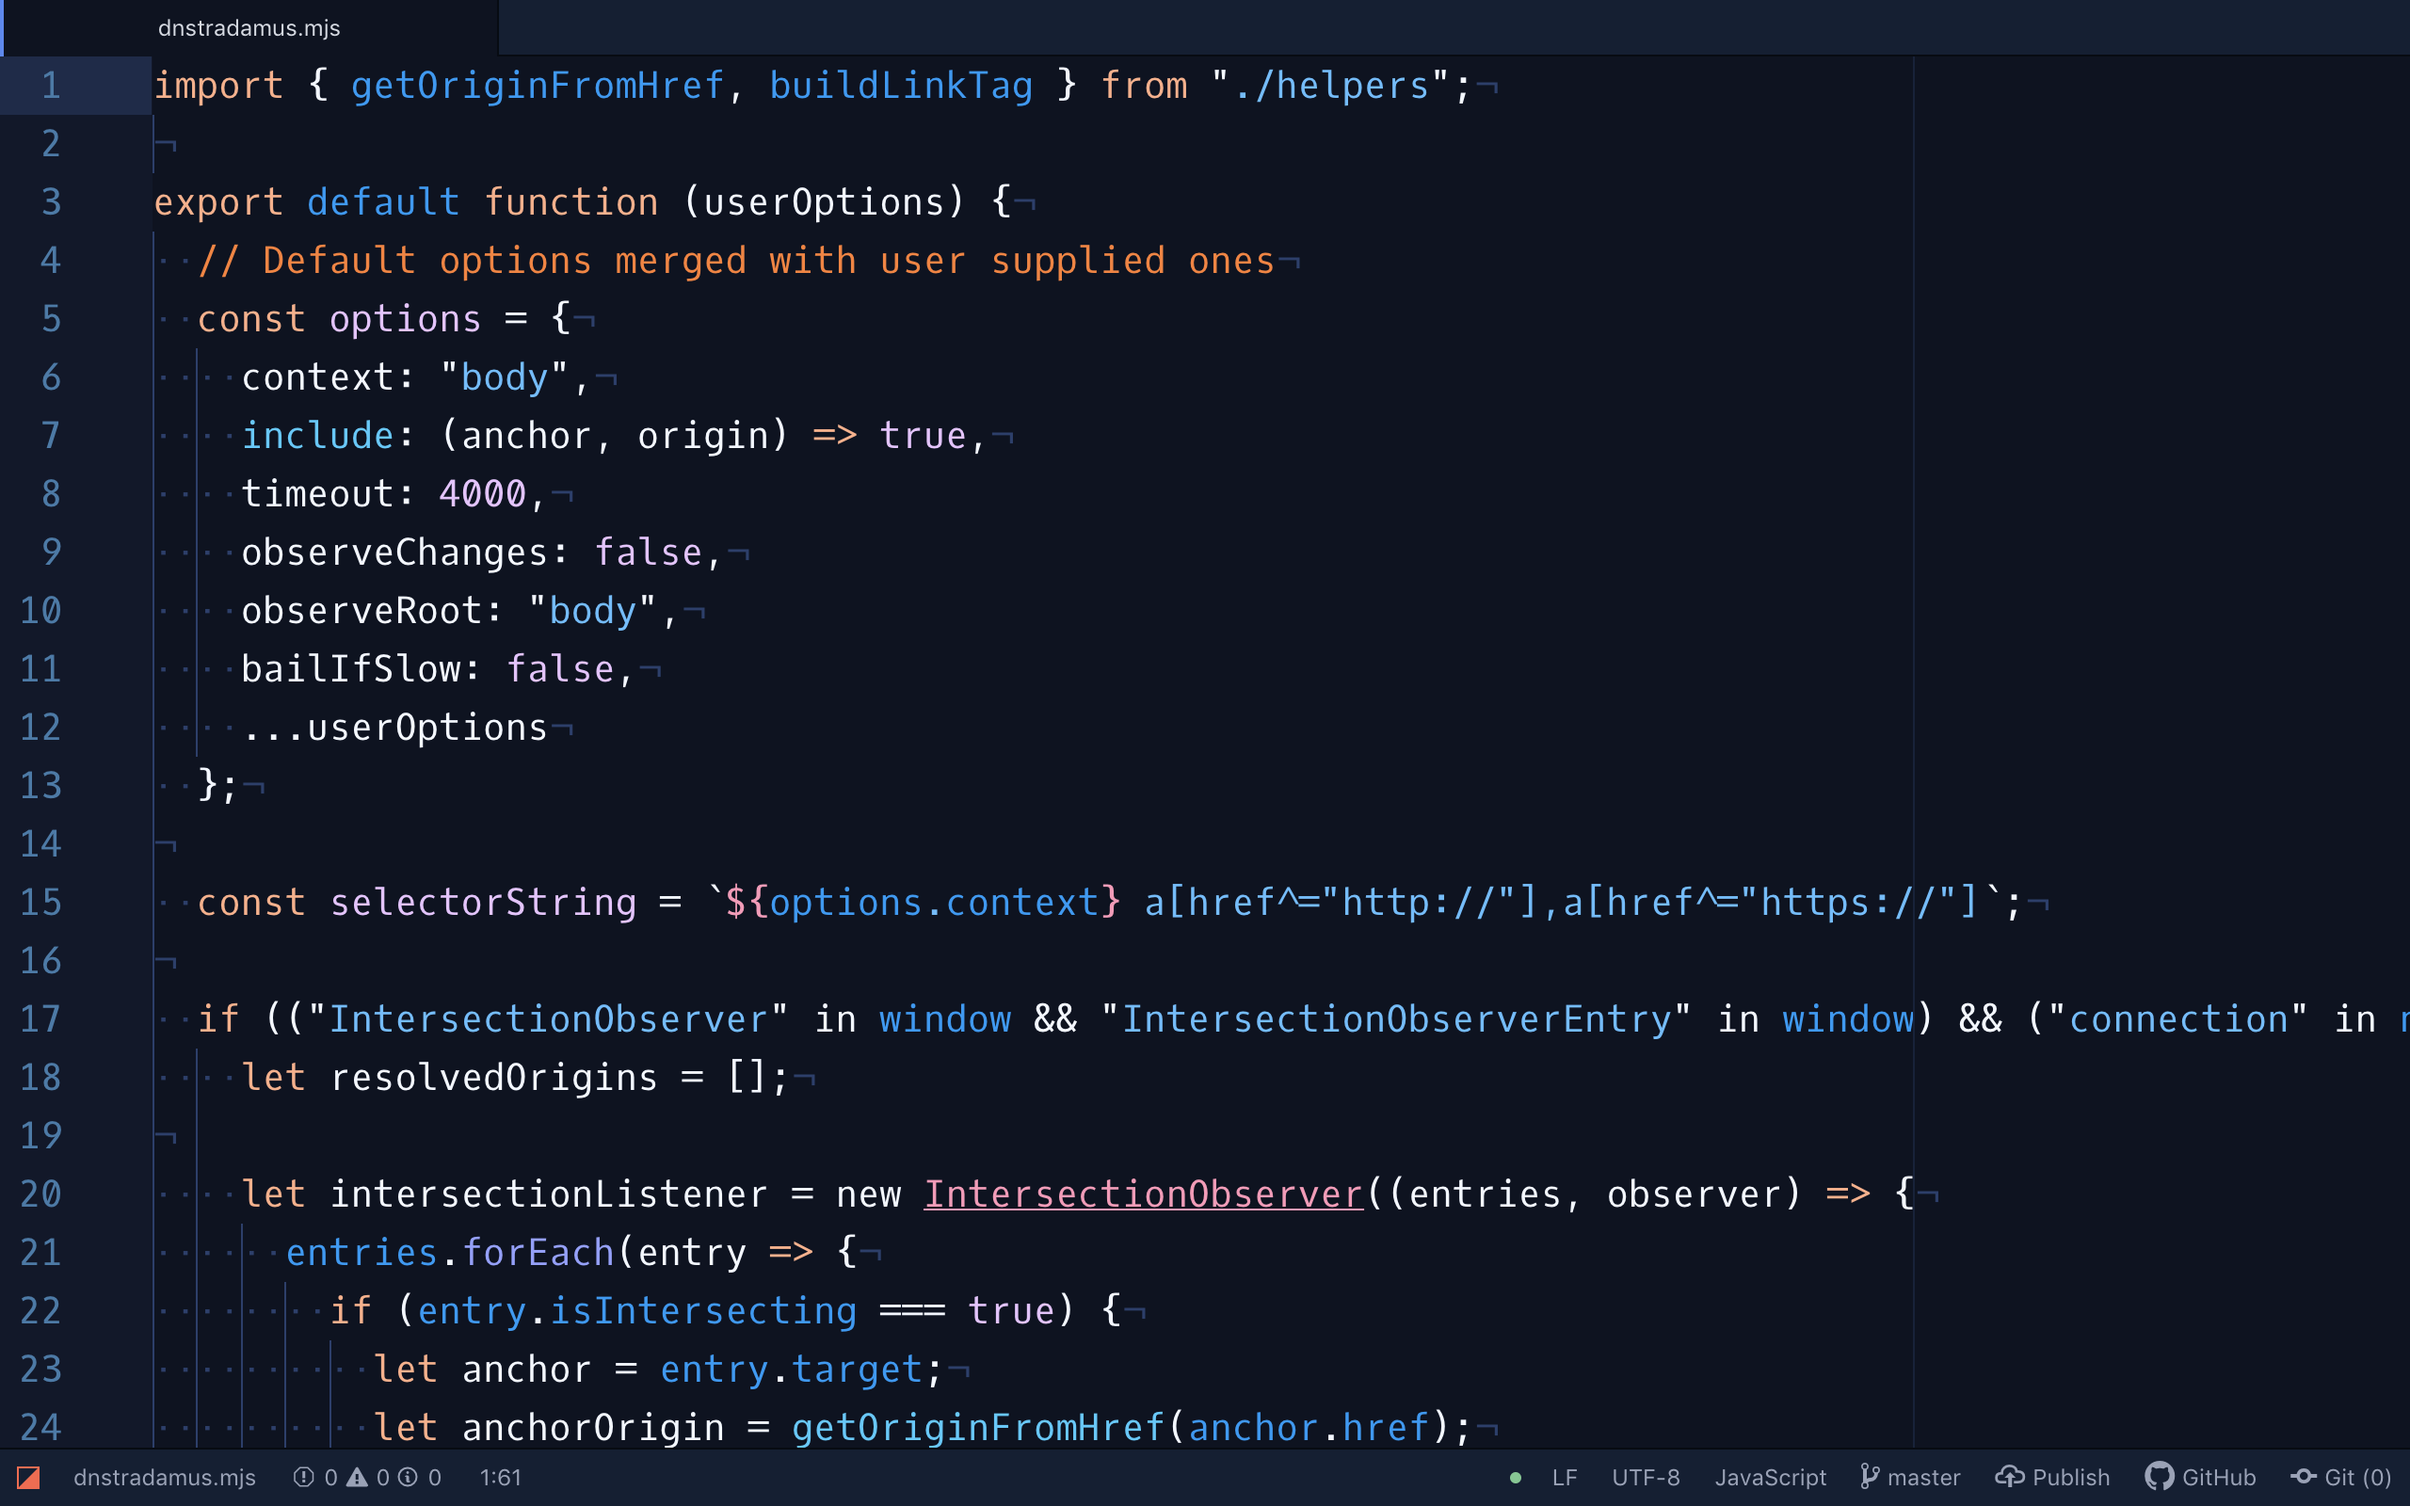
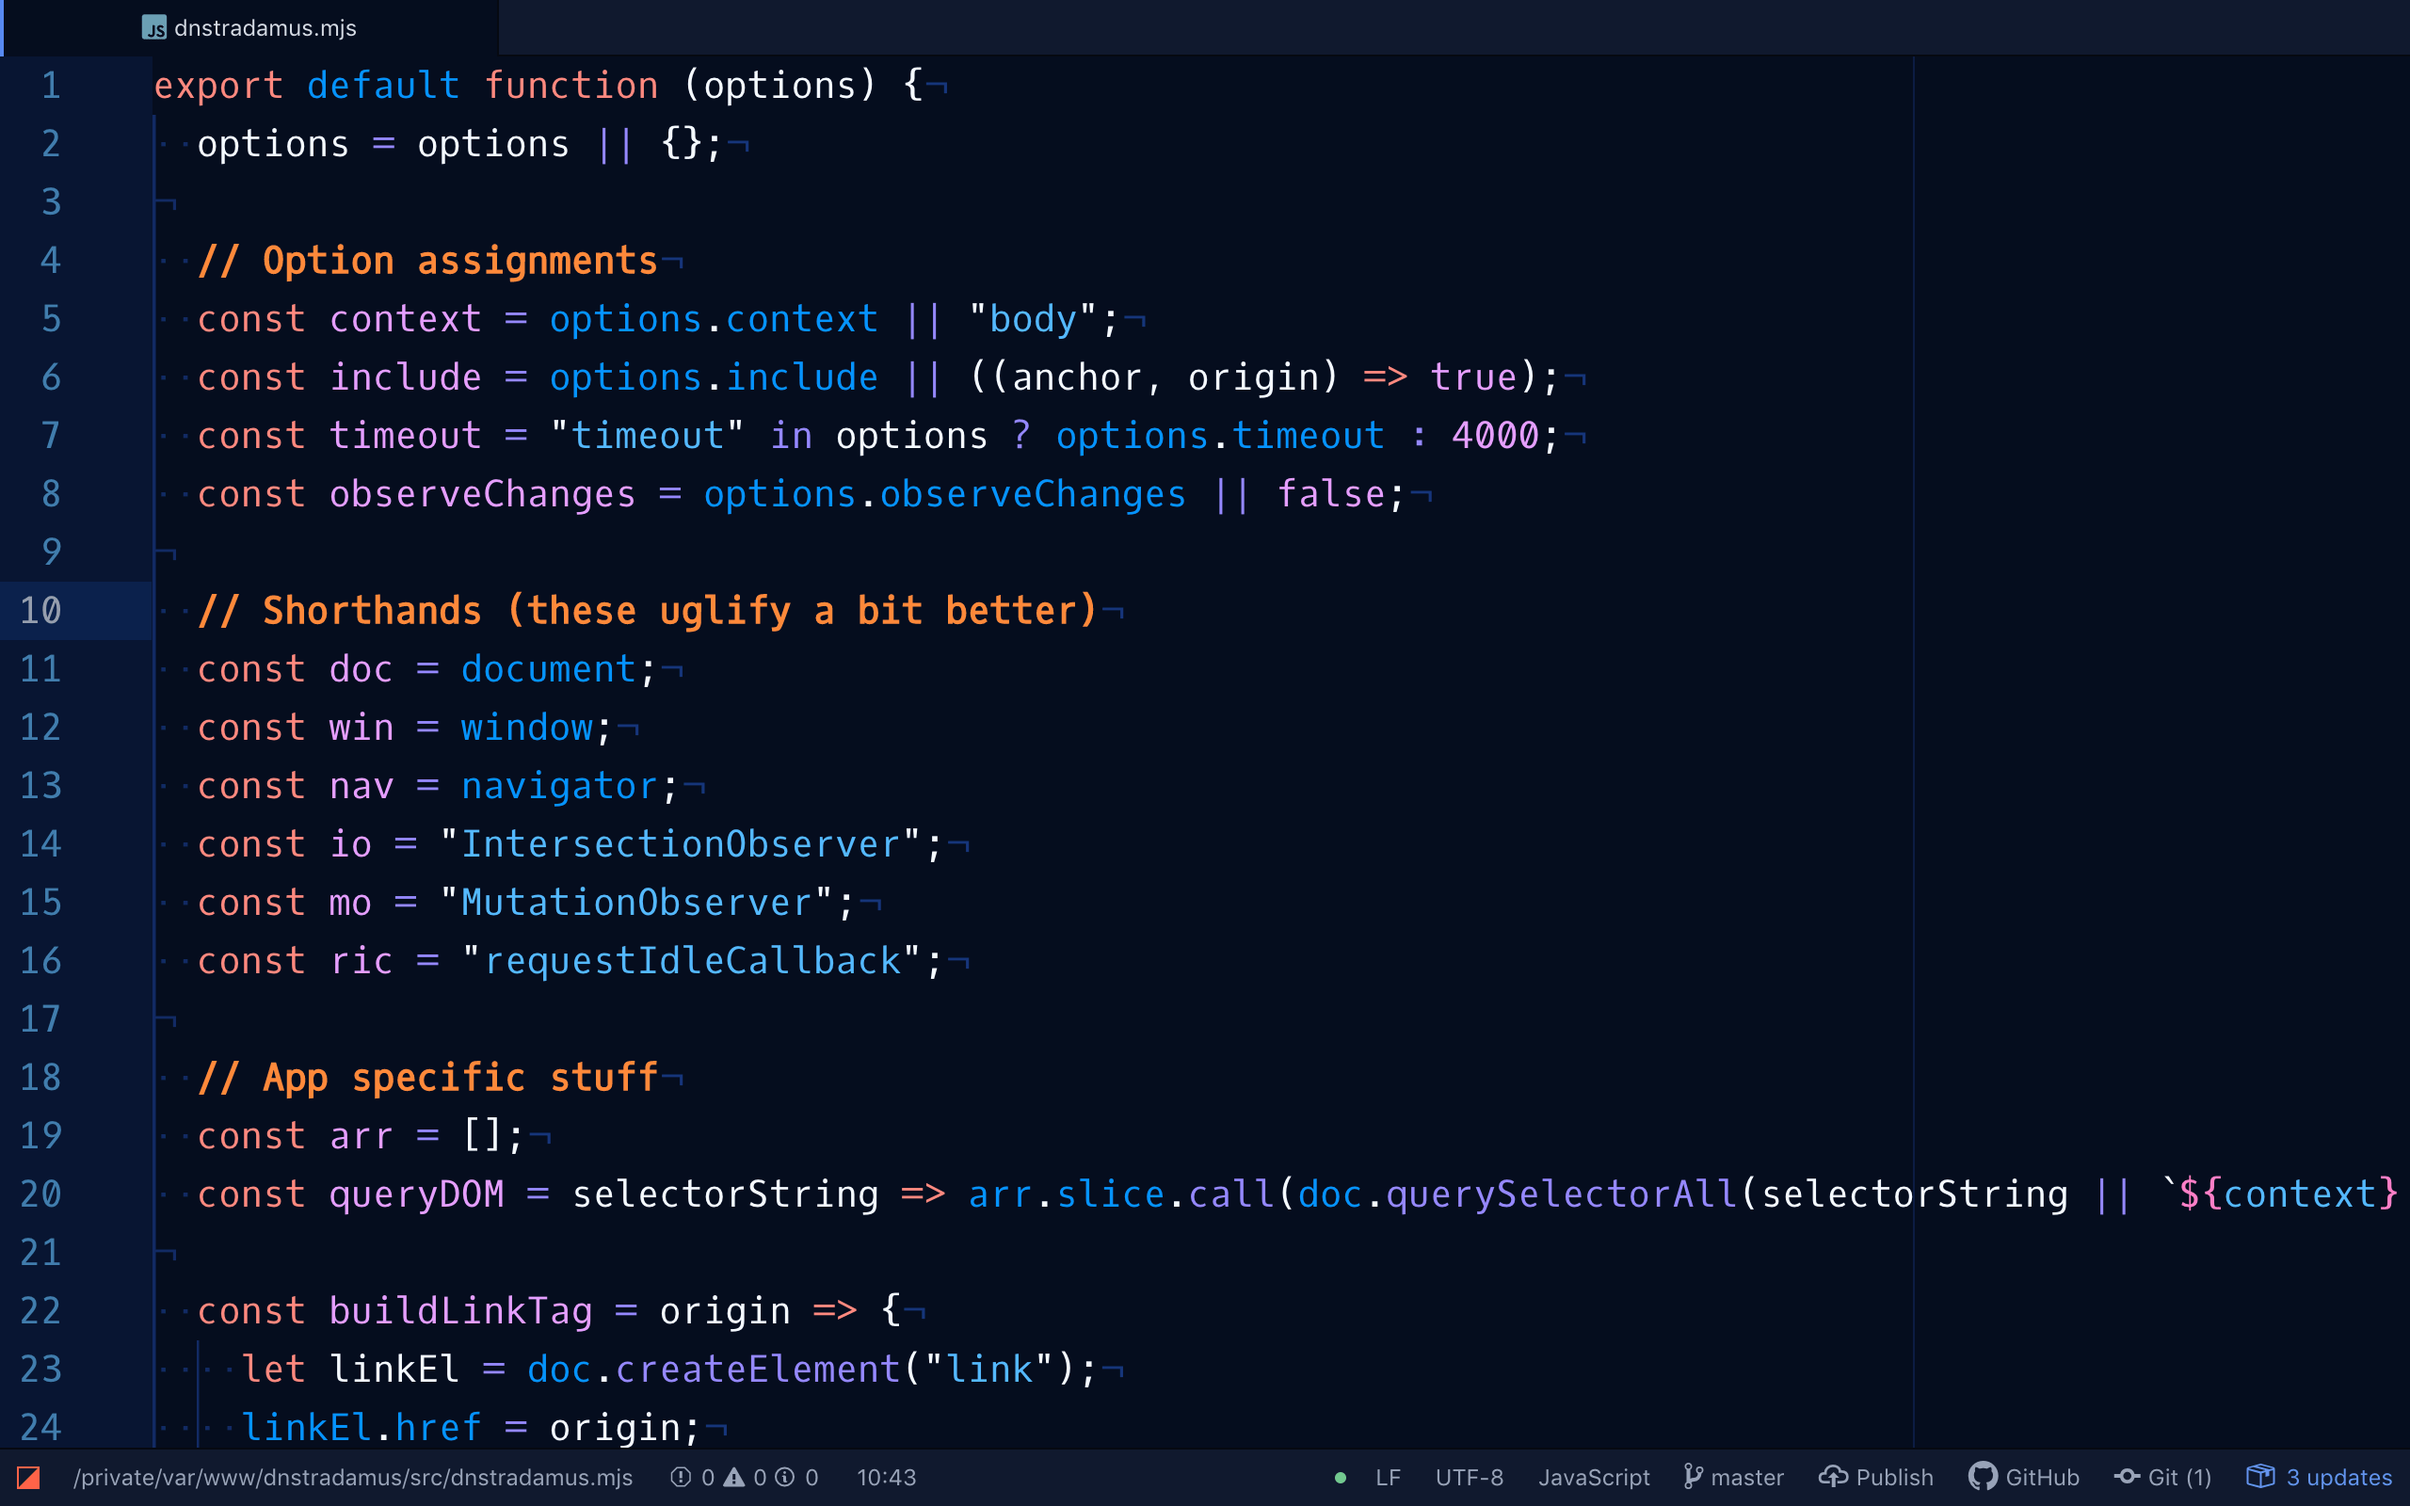
Increased saturation and lightness of colors to improve contrast and visual appeal.

diff --git a/styles/base.less b/styles/base.less
@@ -35,7 +35,7 @@ atom-text-editor {
   .gutter .line-number.folded,
   .gutter .line-number:after,
   .fold-marker:after {
-    color: @princeton-orange;
+    color: @mango-tango;
   }
 
   .invisible {
@@ -55,14 +55,14 @@ atom-text-editor {
 // Syntax styles
 
 .syntax--comment {
-  color: @princeton-orange;
+  color: @mango-tango;
 }
 
 .syntax--keyword {
-  color: @macaroni-and-cheese;
+  color: @tulip;
 
   &.syntax--control {
-    color: @macaroni-and-cheese;
+    color: @tulip;
   }
 
   &.syntax--operator {
@@ -70,27 +70,27 @@ atom-text-editor {
   }
 
   &.syntax--other.syntax--special-method {
-    color: @picton-blue;
+    color: @maya-blue;
   }
 
   &.syntax--other.syntax--unit {
-    color: @electric-lavender;
+    color: @rich-brilliant-lavender;
   }
 }
 
 .syntax--storage {
-  color: @macaroni-and-cheese;
+  color: @tulip;
 }
 
 .syntax--constant {
-  color: @electric-lavender;
+  color: @rich-brilliant-lavender;
 
   &.syntax--character.syntax--escape {
     color: @jordy-blue;
   }
 
   &.syntax--numeric {
-    color: @electric-lavender;
+    color: @rich-brilliant-lavender;
   }
 
   &.syntax--other.syntax--color {
@@ -103,10 +103,10 @@ atom-text-editor {
 }
 
 .syntax--variable {
-  color: @dodger-blue;
+  color: @azure;
 
   &.syntax--interpolation {
-    color: darken(@dodger-blue, 10%);
+    color: darken(@azure, 10%);
   }
 
   &.syntax--parameter.syntax--function {
@@ -115,7 +115,7 @@ atom-text-editor {
 }
 
 .syntax--invalid.syntax--illegal {
-  background-color: @dodger-blue;
+  background-color: @azure;
   color: @syntax-background-color;
 }
 
@@ -127,19 +127,19 @@ atom-text-editor {
     color: @jordy-blue;
 
     .syntax--source.syntax--ruby.syntax--embedded {
-      color: @electric-lavender;
+      color: @rich-brilliant-lavender;
     }
   }
 
   &.syntax--other.syntax--link {
-    color: @dodger-blue;
+    color: @azure;
   }
 }
 
 .syntax--punctuation {
   &.syntax--definition {
     &.syntax--comment {
-      color: @princeton-orange;
+      color: @mango-tango;
     }
 
     &.syntax--string,
@@ -151,45 +151,45 @@ atom-text-editor {
 
     &.syntax--heading,
     &.syntax--identity {
-      color: @picton-blue;
+      color: @maya-blue;
     }
 
     &.syntax--bold {
-      color: @light-crimson;
+      color: @princess-perfume;
       font-weight: bold;
     }
 
     &.syntax--italic {
-      color: @macaroni-and-cheese;
+      color: @tulip;
       font-style: italic;
     }
   }
 
   &.syntax--section.syntax--embedded {
-    color: @light-crimson;
+    color: @princess-perfume;
   }
 }
 
 .syntax--support {
   &.syntax--class {
-    color: @light-crimson;
+    color: @princess-perfume;
   }
 
   &.syntax--function  {
     color: @jordy-blue;
 
     &.syntax--any-method {
-      color: @picton-blue;
+      color: @maya-blue;
     }
   }
 }
 
 .syntax--entity {
   &.syntax--name.syntax--function {
-    color: @picton-blue;
+    color: @maya-blue;
   }
   &.syntax--name.syntax--type {
-    color: @light-crimson;
+    color: @princess-perfume;
     text-decoration: underline;
   }
 
@@ -197,46 +197,46 @@ atom-text-editor {
     color: @very-light-azure;
   }
   &.syntax--name.syntax--class, &.syntax--name.syntax--type.syntax--class {
-    color: @light-crimson;
+    color: @princess-perfume;
   }
 
   &.syntax--name.syntax--section {
-    color: @picton-blue;
+    color: @maya-blue;
   }
 
   &.syntax--name.syntax--tag {
-    color: @dodger-blue;
+    color: @azure;
     text-decoration: underline;
   }
 
   &.syntax--other.syntax--attribute-name {
-    color: @electric-lavender;
+    color: @rich-brilliant-lavender;
 
     &.syntax--id {
-      color: @picton-blue;
+      color: @maya-blue;
     }
   }
 }
 
 .syntax--meta {
   &.syntax--class {
-    color: @light-crimson;
+    color: @princess-perfume;
   }
 
   &.syntax--link {
-    color: @electric-lavender;
+    color: @rich-brilliant-lavender;
   }
 
   &.syntax--require {
-    color: @picton-blue;
+    color: @maya-blue;
   }
 
   &.syntax--selector {
-    color: @macaroni-and-cheese;
+    color: @tulip;
   }
 
   &.syntax--separator {
-    background-color: @deep-koamaru;
+    background-color: @saint-patricks-blue;
     color: @syntax-text-color;
   }
 }
@@ -247,25 +247,25 @@ atom-text-editor {
 
 .syntax--markup {
   &.syntax--bold {
-    color: @electric-lavender;
+    color: @rich-brilliant-lavender;
     font-weight: bold;
   }
 
   &.syntax--changed {
-    color: @macaroni-and-cheese;
+    color: @tulip;
   }
 
   &.syntax--deleted {
-    color: @dodger-blue;
+    color: @azure;
   }
 
   &.syntax--italic {
-    color: @macaroni-and-cheese;
+    color: @tulip;
     font-style: italic;
   }
 
   &.syntax--heading .syntax--punctuation.syntax--definition.syntax--heading {
-    color: @picton-blue;
+    color: @maya-blue;
   }
 
   &.syntax--inserted {
@@ -273,11 +273,11 @@ atom-text-editor {
   }
 
   &.syntax--list {
-    color: @dodger-blue;
+    color: @azure;
   }
 
   &.syntax--quote {
-    color: @electric-lavender;
+    color: @rich-brilliant-lavender;
   }
 
   &.syntax--raw.syntax--inline {

diff --git a/styles/syntax-variables.less b/styles/syntax-variables.less
@@ -5,27 +5,27 @@
 
 // General colors
 @syntax-text-color: @alice-blue;
-@syntax-cursor-color: @princeton-orange;
-@syntax-selection-color: lighten(@yankees-blue, 10%);
-@syntax-background-color: @eerie-black;
+@syntax-cursor-color: @mango-tango;
+@syntax-selection-color: lighten(@maastricht-blue, 7.5%);
+@syntax-background-color: @rich-black-fogra29;
 
 // Guide colors
-@syntax-wrap-guide-color: @yankees-blue;
-@syntax-indent-guide-color: @deep-koamaru;
-@syntax-invisible-character-color: @deep-koamaru;
+@syntax-wrap-guide-color: @maastricht-blue;
+@syntax-indent-guide-color: @saint-patricks-blue;
+@syntax-invisible-character-color: @saint-patricks-blue;
 
 // For find and replace markers
-@syntax-result-marker-color: @princeton-orange;
-@syntax-result-marker-color-selected: @electric-lavender;
+@syntax-result-marker-color: @mango-tango;
+@syntax-result-marker-color-selected: @rich-brilliant-lavender;
 
 // Gutter colors
-@syntax-gutter-text-color: @very-light-azure;
-@syntax-gutter-text-color-selected: @syntax-gutter-text-color;
-@syntax-gutter-background-color: lighten(@eerie-black, 2.5%);
-@syntax-gutter-background-color-selected: lighten(@yankees-blue, 10%);
+@syntax-gutter-text-color: lighten(@very-light-azure, 3.75%);
+@syntax-gutter-text-color-selected: @alice-blue;
+@syntax-gutter-background-color: lighten(@rich-black-fogra29, 4.375%);
+@syntax-gutter-background-color-selected: lighten(@maastricht-blue, 6.25%);
 
 // For git diff info. i.e. in the gutter
-@syntax-color-renamed: @princeton-orange;
-@syntax-color-added: @medium-spring-green;
-@syntax-color-modified: @stil-de-grain-yellow;
-@syntax-color-removed: @english-vermillion;
+@syntax-color-renamed: @mango-tango;
+@syntax-color-added: @spring-green;
+@syntax-color-modified: @school-bus-yellow;
+@syntax-color-removed: @red-pantone;

diff --git a/styles/colors.less b/styles/colors.less
@@ -1,19 +1,19 @@
 // These colors are specific to the theme. Do not use in a package!
 
-@alice-blue: #f2f7ff;
-@princeton-orange: #fe7f2d;
-@deep-koamaru: #2a3e6d;
-@yankees-blue: #16213a;
-@eerie-black: #0d1321;
+@alice-blue: #f4f9ff;
+@mango-tango: #ff893a;
+@saint-patricks-blue: #17347a;
+@maastricht-blue: #0b1c42;
+@rich-black-fogra29: #050d1e;
 
-@jordy-blue: #969dff;
-@picton-blue: #42cafd;
-@macaroni-and-cheese: #ffaf87;
-@very-light-azure: #60bdff;
-@dodger-blue: #1098f7;
-@electric-lavender: #eac1ff;
-@light-crimson: #ff96b9;
+@jordy-blue: #9589ff;
+@maya-blue: #4fdbff;
+@tulip: #ff8a7f;
+@very-light-azure: #54baff;
+@azure: #0094ff;
+@rich-brilliant-lavender: #e59eff;
+@princess-perfume: #ff7fc7;
 
-@stil-de-grain-yellow: #f2dc5d;
-@english-vermillion: #d33f49;
-@medium-spring-green: #20fc8f;
+@school-bus-yellow: #ffd800;
+@red-pantone: #ed2331;
+@spring-green: #07ff83;

diff --git a/CHANGELOG.md b/CHANGELOG.md
@@ -1,3 +1,6 @@
+## 0.1.3
+- Increased saturation and lightness of some colors to improve contrast and visual appeal.
+
 ## 0.1.2
 - Chose better colors for removed/added/modified markers in the gutter.
 
